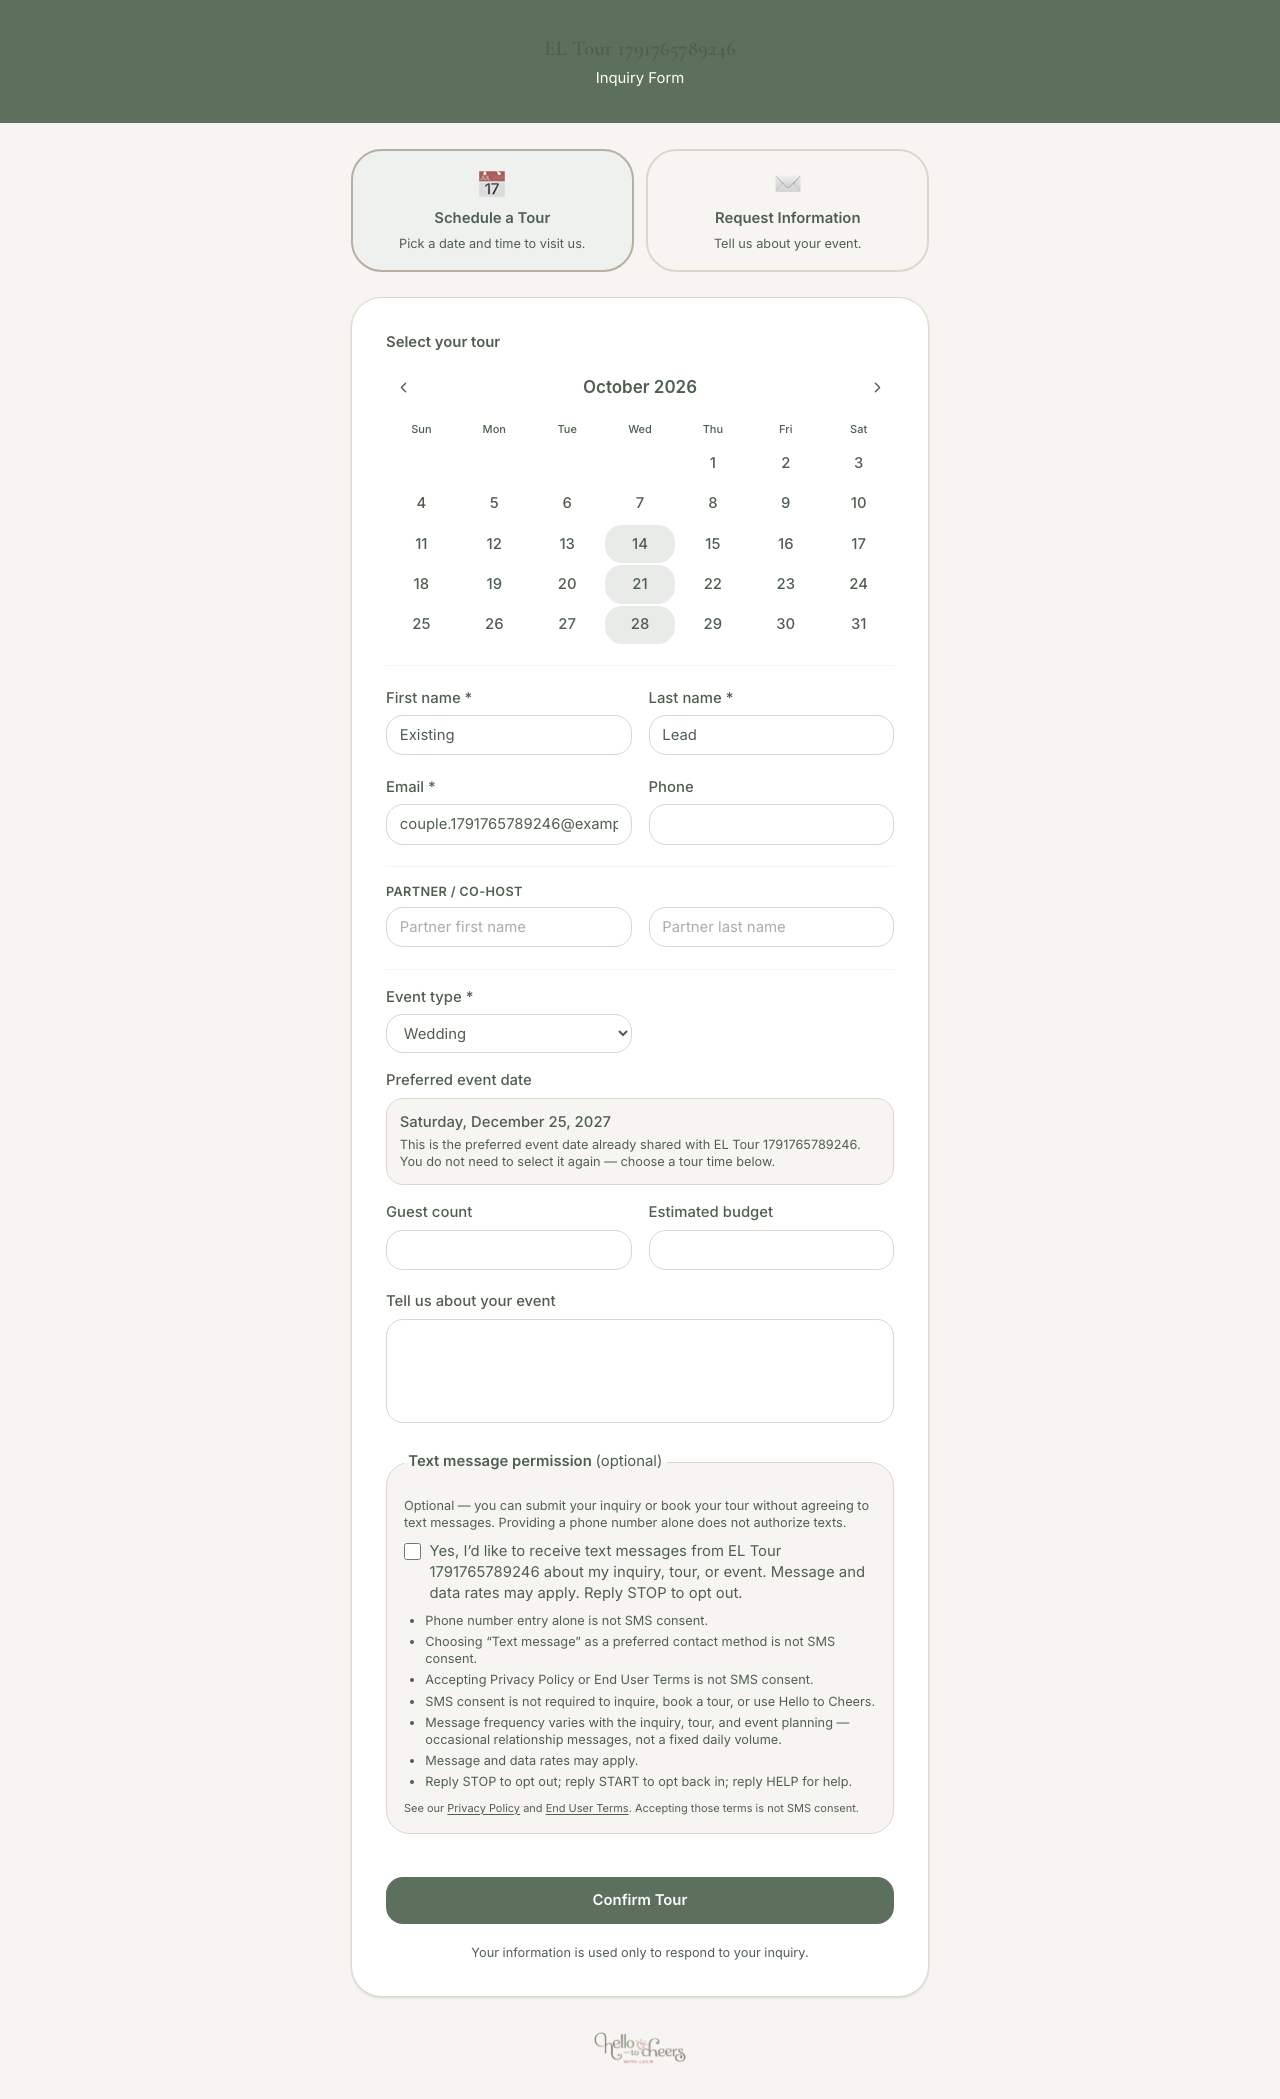
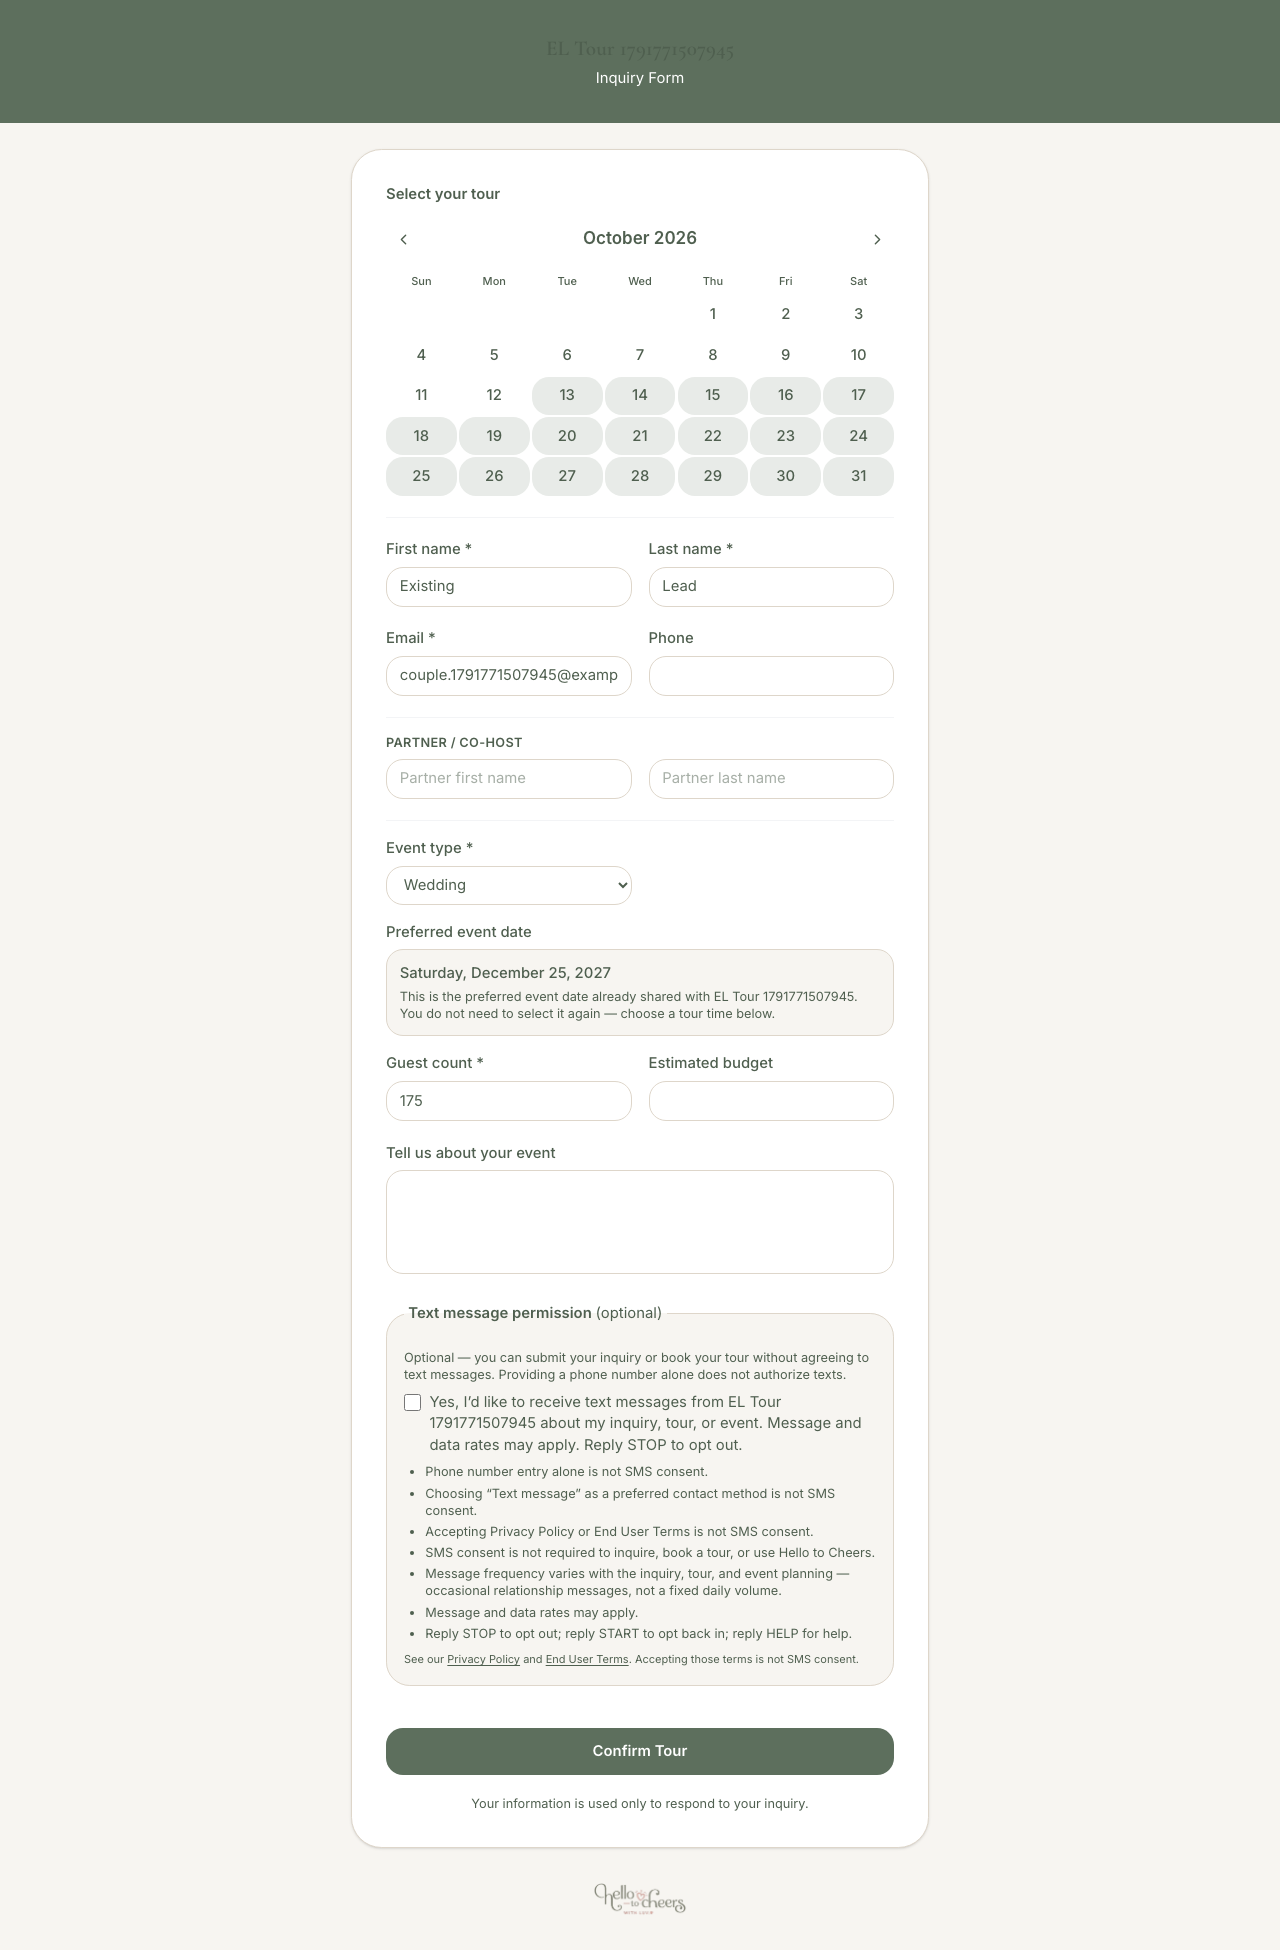
Record Ellie existing-lead tour fix GREEN on Sandbox tip 553c8687.

diff --git a/docs/qa/tour-scheduling/EXISTING-LEAD-ELLIE-INCIDENT.md b/docs/qa/tour-scheduling/EXISTING-LEAD-ELLIE-INCIDENT.md
@@ -1,10 +1,13 @@
 # P0 — Ellie cannot book a tour from existing-lead link
 
-**Status:** FIX IMPLEMENTED — awaiting Sandbox deploy + tip verification  
-**Sandbox tip at investigation start:** `c00749be9f39026029256e43c408ab9789bea7c1`  
+**Status:** GREEN on Sandbox  
+**Commit:** `553c8687dd19e1d5196c94fe07b9957cecabec70`  
+**Deployed tip:** `553c8687dd19e1d5196c94fe07b9957cecabec70` (matches commit)  
+**Deploy:** https://github.com/jlcormier612/wevenu-website/actions/runs/38194762576  
 **Preserved ancestors:** `8e4f911e` (blocked-date), `45290d6a` (existing-lead preferred-date)  
 **Production:** untouched  
-**Ellie live lead:** inspected read-only only (`8d61d740-…`, Meadowbrook, `2027-09-04` holds active, stage `outreach_sent`)
+**Observed:** 2026-10-12T02:18:27Z  
+**Ellie live lead:** read-only; unchanged (`outreach_sent`, `2027-09-04`, holds active, 0 appointments)
 
 ---
 
@@ -14,15 +17,13 @@
 2. Server resolves existing-lead context and shows preferred date **2027-09-04** (held).
 3. That held date was **seeded into mutable `eventDate` state**.
 4. ModeSelector still offered **Request Information**.
-5. Switching to Request Information (or any automation that clicks a button matching `/Request/i`) submitted `/api/public/inquire` with `eventDate=2027-09-04`.
+5. Switching to Request Information submitted `/api/public/inquire` with `eventDate=2027-09-04`.
 6. Server correctly rejected: **“That date is no longer available. Please choose another date.”**
 
-Reproduced on tip `c00749be` with disposable ModeFlip fixture:
+Pre-fix repro on tip `c00749be`:
 
-- `docs/qa/tour-scheduling/mode-flip-inquire.png`
-- `docs/qa/tour-scheduling/mode-flip-browser.json`
-
-Direct Confirm Tour (correct button) **already succeeded** on the same tip with held preferred date + attach (`attachedExistingLead=true`, hold/event date unchanged). See `ellie-confirm-browser.json`.
+- Mode flip → inquire failure: `mode-flip-inquire.png`, `mode-flip-browser.json`
+- Correct Confirm Tour already attached successfully: `ellie-confirm-browser.json` (proved server attach was fine)
 
 ## Why prior GREEN missed it
 
@@ -30,41 +31,54 @@ Direct Confirm Tour (correct button) **already succeeded** on the same tip with 
 |---|---|
 | Browser script booked via **API** with `eventDate: ""` | Never exercised UI Confirm Tour payload |
 | UI never asserted ModeSelector lock | Request Information remained reachable with held date seeded |
-| Playwright mis-click used `/Schedule\|Book\|Submit\|Request/i`.last() | Clicked **Request Information**, not Confirm Tour — false “UI failure” |
+| Mis-click `/Schedule\|Book\|Submit\|Request/i`.last() | Clicked **Request Information**, not Confirm Tour |
 
 ## Root cause (first divergence)
 
 **UI:** `InquiryForm` seeded `existingLeadTour.preferredEventDate` into `eventDate` and left ModeSelector enabled on existing-lead tour links. Request Information then treated that held date as a new-inquiry preferred date.
 
-Server attach path was already correct when Confirm Tour + valid `o=` ran.
+Server attach (`book_public_tour_for_lead` + valid `o=`) was already correct.
 
-## Fix
+## Fix (`553c8687`)
 
 | Change | Behavior |
 |---|---|
 | Lock existing-lead `?o=` links to `schedule_tour` | Hide ModeSelector; no Request Information |
 | Do not seed held preferred date into `eventDate` | Display-only via read-only block |
 | Existing-lead tour submit sends `eventDate: ""` | Attach uses lead’s authoritative date server-side |
-| Seed `guestCount` from lead | Meadowbrook-required field does not block Ellie |
+| Seed `guestCount` from lead | Meadowbrook-required field does not block |
 
 ## CRM `HTC_CRM_VERSION_CONFLICT`
 
-- Tour book attach (`book_public_tour_for_lead`) and public inquire do **not** call `htc_crm_replace_store`.
-- Conflict (`expected 6611, actual 6783`) is staff CRM optimistic concurrency, not the customer tour submit path.
-- **Conclusion:** unrelated to Ellie’s tour failure; no CRM rewrite in this incident.
+- Tour book attach and public inquire do **not** call `htc_crm_replace_store`.
+- Conflict (`expected 6611, actual 6783`) is staff CRM optimistic concurrency.
+- **Conclusion:** unrelated to Ellie’s tour failure; no CRM rewrite.
 
-## Tests
+## Verification on tip `553c8687`
 
-- Unit: `lib/tours/existing-lead-tour-context.test.ts` + blocked-date suite → **14/14**
-- Browser: `scripts/qa/existing-lead-tour-preferred-date-browser.mts` (UI Confirm Tour + mode lock + held-date create reject)
-
-## Deploy / verification
-
-Fill after Sandbox deploy:
-
-| Item | Value |
+| Check | Result |
 |---|---|
-| Commit SHA | _(pending)_ |
-| Deployed tip | _(pending)_ |
-| UI Confirm Tour E2E | _(pending)_ |
-| Persisted hold/event date | _(pending)_ |
+| Unit (existing-lead + blocked-date) | **14/14** |
+| Browser regression | **27/27 GREEN** (`browser-results.json`) |
+| Mode toggle hidden | PASS |
+| Guest count seeded | PASS |
+| UI Confirm Tour success | PASS (`eventDate=""`) |
+| Attached existing lead | PASS |
+| Held date rejected for new create | PASS |
+| Event date / hold unchanged | PASS |
+| No duplicate lead/event | PASS |
+| Invalid token / unavailable slot / cross-venue | PASS |
+| New inquiry blocked Christmas | PASS |
+| Ellie live record mutated | **No** |
+
+Commands:
+
+```bash
+npx tsx --test lib/tours/existing-lead-tour-context.test.ts lib/availability/inquiry-tour-blocked-dates.test.ts
+npx tsx scripts/qa/existing-lead-tour-preferred-date-browser.mts
+```
+
+## Remaining limitations
+
+- Generic `/book/{key}` (no `o=`) still shows ModeSelector; held dates cannot be selected via availability calendar (`8e4f911e`).
+- Staff CRM version conflicts remain a separate reliability topic (see `docs/qa/supabase-egress-quota-audit/`).

diff --git a/docs/qa/tour-scheduling/EXISTING-LEAD-PREFERRED-DATE.md b/docs/qa/tour-scheduling/EXISTING-LEAD-PREFERRED-DATE.md
@@ -1,10 +1,11 @@
 # Existing-lead tour scheduling — preserve preferred event date
 
-**Status:** SUPERSEDED for Ellie P0 — see `EXISTING-LEAD-ELLIE-INCIDENT.md`  
-**Prior GREEN tip:** `45290d6adaeaa446341c8527f4ec81e8fabf3935` (API-path proof; missed ModeToggle footgun)  
+**Status:** GREEN on Sandbox (Ellie ModeToggle footgun closed — see `EXISTING-LEAD-ELLIE-INCIDENT.md`)  
+**Deployed tip:** `553c8687dd19e1d5196c94fe07b9957cecabec70`  
+**Prior partial GREEN:** `45290d6a` (API-path only; missed ModeToggle + UI Confirm Tour)  
 **Blocked-date fix preserved:** `8e4f911e`  
 **Production:** untouched  
-**Observed:** 2026-10-12T00:43:09Z (prior); Ellie incident reopened 2026-10-12
+**Observed:** 2026-10-12T02:18:27Z
 
 ---
 
